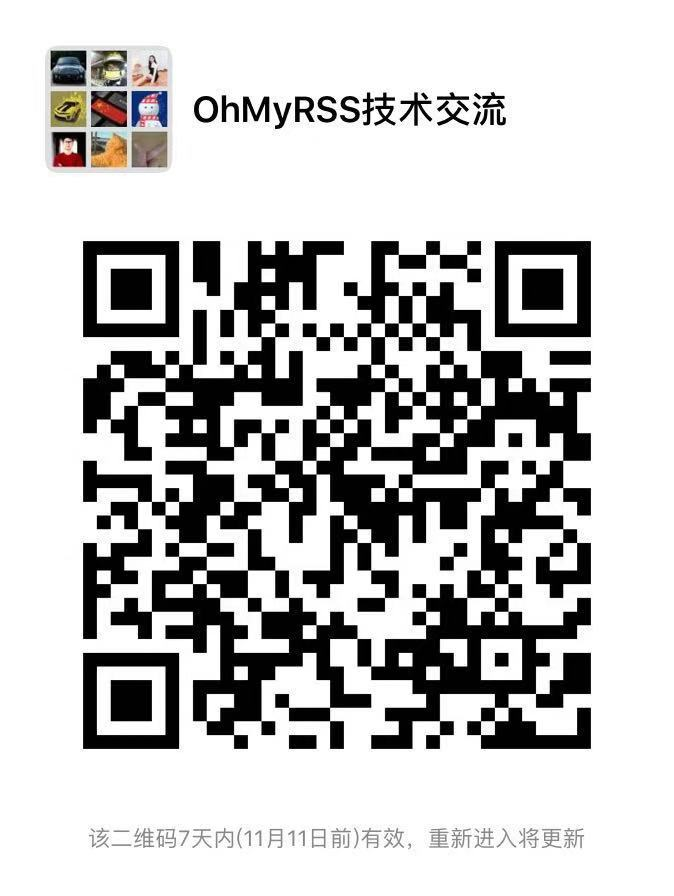
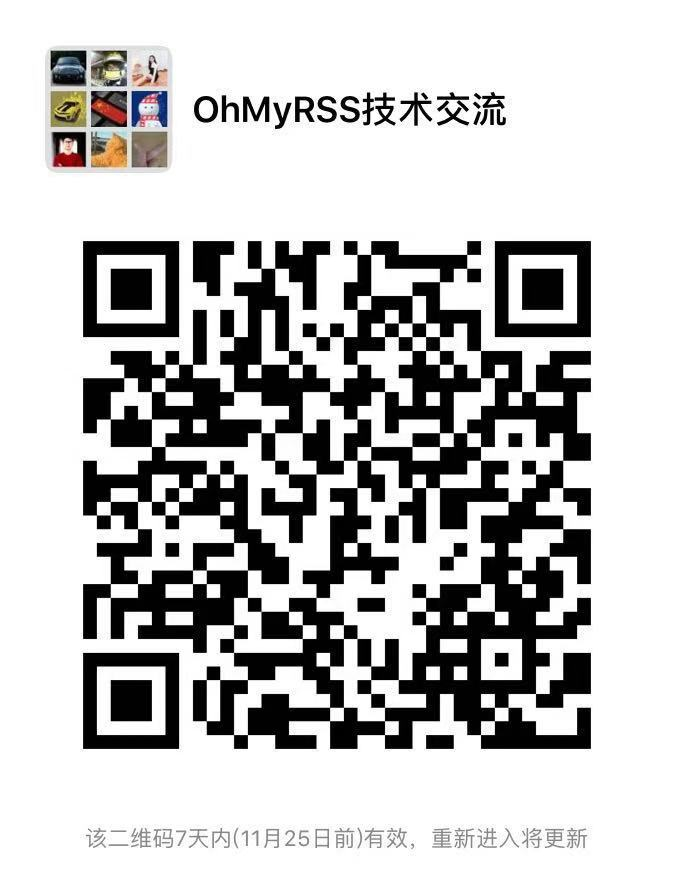
update qrcode

diff --git a/README.md b/README.md
@@ -1,5 +1,5 @@
 # Oh My RSS
-Oh My RSS 是一个开源的在线RSS服务，通过爬虫汇聚互联网上的精华内容，旨在为国内的 IT 从业者提供一个优质的学习圈子。
+Oh My RSS 是一个开源的在线 RSS 服务，旨在汇聚互联网上的精华内容，为中文 IT 从业者提供一个优质的学习圈子。
 
 ![预览](https://raw.githubusercontent.com/richshaw2015/oh-my-rss/master/assets/img/preview.jpg)
 
@@ -77,7 +77,7 @@ python3 manage.py migrate
 scrapy crawl coolshell
 ```
 
-提交的订阅源会以每小时一次的频率更新。
+提交的订阅源会以1~2小时一次的频率更新。
 
 ## 贡献
 详见 CONTRIBUTING.md
